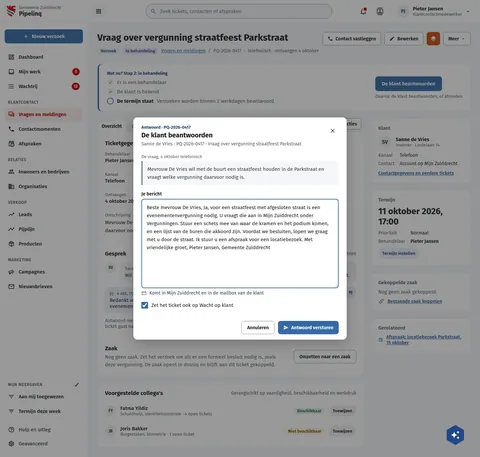
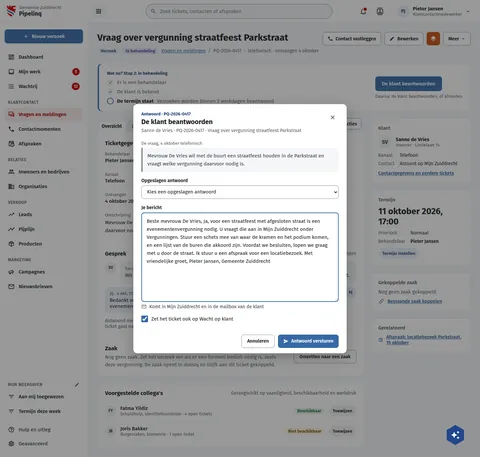
fix(screens): ticket boards draw the saved reply, the Dq menu and list Acties
PqTicketAntwoord draws the "Opgeslagen antwoord" select live offers above
the message, since users keep it. PqTicketMeer's menu is 330 wide with
Afwijzen in ink, as DqZaakMeer draws its menu. PqTickets puts Acties next
to Downloaden in the header, as DqZaken and live.

Assisted-by: ClaudeCode:claude-opus-5-5

Changed region(s): [[0.2812, 0.2144, 0.7188, 0.5821], [0.25, 0.674, 0.75, 0.7965], [0.2812, 0.6127, 0.7188, 0.7046]]

diff --git a/preview/screens/boards/PqTicketMeer.html b/preview/screens/boards/PqTicketMeer.html
@@ -207,7 +207,7 @@ a{color:var(--sc-primary, #3669a5)}a:hover{color:var(--sc-primary-deep, #234a78)
   </div>
   <div style="position: absolute; top: 140px; right: 28px; display: flex; gap: 6px; align-items: flex-start">
     <div style="margin-top: 52px; width: 260px; box-sizing: border-box; padding: 14px 16px; background: #ffffff; border: 1px solid var(--sc-work-line, #e4e6ea); border-radius: 10px; box-shadow: 0 10px 30px rgba(27,28,29,0.18); font-size: 13px; line-height: 1.45; color: var(--sc-work-text, #3d4047)"><p style="margin: 0 0 6px; font-size: 12px; font-weight: 700; letter-spacing: 0.06em; text-transform: uppercase; color: var(--sc-work-muted, #5e6168)">Andere stappen</p><p style="margin: 0 0 8px">Elke stap is een benoemde beweging van het ticket en staat er alleen als die kan:</p><ul style="margin: 0; padding-left: 18px"><li>In behandeling nemen, zolang het ticket nieuw is</li><li>Terug naar in behandeling, zolang het wacht op de klant</li><li>Afronden, bij een verzoek</li><li>Oplossen, bij een klacht</li><li>Ticket sluiten, bij een contactmoment</li><li>Afwijzen, zolang nieuw of in behandeling</li></ul><p style="margin: 8px 0 0; color: var(--sc-work-muted, #5e6168)">Elke stap wordt op de server opnieuw gecontroleerd.</p></div>
-    <ul role="menu" style="margin: 0; padding: 6px; box-sizing: border-box; list-style: none; width: 270px; background: #ffffff; border: 1px solid var(--sc-work-line, #e4e6ea); border-radius: 10px; box-shadow: 0 10px 30px rgba(27,28,29,0.18)"><li role="presentation" style="padding: 8px 10px 4px; font-size: 12px; font-weight: 700; letter-spacing: 0.06em; text-transform: uppercase; color: var(--sc-work-muted, #5e6168)">Status</li><li role="none"><button type="button" role="menuitem" style="width: 100%; display: flex; align-items: center; gap: 10px; height: 36px; padding: 0 10px; border: 0; border-radius: 6px; background: transparent; font: 400 14px var(--sc-font, 'Fira Sans'), sans-serif; color: var(--sc-work-ink, #1b1c1d); text-align: left"><svg width="18" height="18" viewbox="0 0 24 24" fill="currentColor" style="flex: none; color: var(--sc-work-text, #3d4047)"><path d="M17 18H21V16H17V14L14 17L17 20V18M11 4C8.8 4 7 5.8 7 8S8.8 12 11 12 15 10.2 15 8 13.2 4 11 4M11 6C12.1 6 13 6.9 13 8S12.1 10 11 10 9 9.1 9 8 9.9 6 11 6M11 13C8.3 13 3 14.3 3 17V20H12.5C12.2 19.4 12.1 18.8 12 18.1H4.9V17C4.9 16.4 8 14.9 11 14.9C11.5 14.9 12 15 12.5 15C12.8 14.4 13.1 13.8 13.6 13.3C12.6 13.1 11.7 13 11 13"></path></svg>Aan mij toewijzen</button></li><li role="presentation" style="padding: 10px 10px 4px; font-size: 12px; font-weight: 700; letter-spacing: 0.06em; text-transform: uppercase; color: var(--sc-work-muted, #5e6168)">Afronden</li><li role="none"><button type="button" role="menuitem" style="width: 100%; display: flex; align-items: center; gap: 10px; height: 36px; padding: 0 10px; border: 0; border-radius: 6px; background: #f0f4f9; font: 400 14px var(--sc-font, 'Fira Sans'), sans-serif; color: var(--sc-work-ink, #1b1c1d); text-align: left"><svg width="18" height="18" viewbox="0 0 24 24" fill="currentColor" style="flex: none; color: var(--sc-work-text, #3d4047)"><path d="M12 2C6.5 2 2 6.5 2 12S6.5 22 12 22 22 17.5 22 12 17.5 2 12 2M12 20C7.59 20 4 16.41 4 12S7.59 4 12 4 20 7.59 20 12 16.41 20 12 20M16.59 7.58L10 14.17L7.41 11.59L6 13L10 17L18 9L16.59 7.58Z"></path></svg>Afronden</button></li><li role="none"><button type="button" role="menuitem" style="width: 100%; display: flex; align-items: center; gap: 10px; height: 36px; padding: 0 10px; border: 0; border-radius: 6px; background: transparent; font: 400 14px var(--sc-font, 'Fira Sans'), sans-serif; color: var(--sc-accent-deep, #a30000); text-align: left"><svg width="18" height="18" viewbox="0 0 24 24" fill="currentColor" style="flex: none; color: var(--sc-accent-deep, #a30000)"><path d="M12,20C7.59,20 4,16.41 4,12C4,7.59 7.59,4 12,4C16.41,4 20,7.59 20,12C20,16.41 16.41,20 12,20M12,2C6.47,2 2,6.47 2,12C2,17.53 6.47,22 12,22C17.53,22 22,17.53 22,12C22,6.47 17.53,2 12,2M14.59,8L12,10.59L9.41,8L8,9.41L10.59,12L8,14.59L9.41,16L12,13.41L14.59,16L16,14.59L13.41,12L16,9.41L14.59,8Z"></path></svg>Afwijzen</button></li><li role="separator" style="height: 1px; margin: 6px 0; background: var(--sc-work-soft, #eef0f3)"></li><li role="none"><button type="button" role="menuitem" style="width: 100%; display: flex; align-items: center; gap: 10px; height: 36px; padding: 0 10px; border: 0; border-radius: 6px; background: transparent; font: 400 14px var(--sc-font, 'Fira Sans'), sans-serif; color: var(--sc-work-ink, #1b1c1d); text-align: left"><svg width="18" height="18" viewbox="0 0 24 24" fill="currentColor" style="flex: none; color: var(--sc-work-text, #3d4047)"><path d="M14 2H6C4.89 2 4 2.9 4 4V20C4 21.11 4.89 22 6 22H18C19.11 22 20 21.11 20 20V8L14 2M18 20H6V4H13V9H18V20M12.54 18.5V16.5H8.54V14.5H12.54V12.5L15.54 15.5L12.54 18.5Z"></path></svg>Omzetten naar een Woo-verzoek</button></li><li role="none"><button type="button" role="menuitem" style="width: 100%; display: flex; align-items: center; gap: 10px; height: 36px; padding: 0 10px; border: 0; border-radius: 6px; background: transparent; font: 400 14px var(--sc-font, 'Fira Sans'), sans-serif; color: var(--sc-work-ink, #1b1c1d); text-align: left"><svg width="18" height="18" viewbox="0 0 24 24" fill="currentColor" style="flex: none; color: var(--sc-work-text, #3d4047)"><path d="M20 18H4V8H20V18M12 6L10 4H4C2.9 4 2 4.89 2 6V18C2 19.11 2.9 20 4 20H20C21.11 20 22 19.11 22 18V8C22 6.9 21.11 6 20 6H12M11 14V12H15V9L19 13L15 17V14H11Z"></path></svg>Omzetten naar een zaak</button></li><li role="separator" style="height: 1px; margin: 6px 0; background: var(--sc-work-soft, #eef0f3)"></li><li role="none"><button type="button" role="menuitem" style="width: 100%; display: flex; align-items: center; gap: 10px; height: 36px; padding: 0 10px; border: 0; border-radius: 6px; background: transparent; font: 400 14px var(--sc-font, 'Fira Sans'), sans-serif; color: var(--sc-work-ink, #1b1c1d); text-align: left"><svg width="18" height="18" viewbox="0 0 24 24" fill="currentColor" style="flex: none; color: var(--sc-work-text, #3d4047)"><path d="M17.65,6.35C16.2,4.9 14.21,4 12,4A8,8 0 0,0 4,12A8,8 0 0,0 12,20C15.73,20 18.84,17.45 19.73,14H17.65C16.83,16.33 14.61,18 12,18A6,6 0 0,1 6,12A6,6 0 0,1 12,6C13.66,6 15.14,6.69 16.22,7.78L13,11H20V4L17.65,6.35Z"></path></svg>Vernieuwen</button></li><li role="none"><button type="button" role="menuitem" style="width: 100%; display: flex; align-items: center; gap: 10px; height: 36px; padding: 0 10px; border: 0; border-radius: 6px; background: transparent; font: 400 14px var(--sc-font, 'Fira Sans'), sans-serif; color: var(--sc-work-ink, #1b1c1d); text-align: left"><svg width="18" height="18" viewbox="0 0 24 24" fill="currentColor" style="flex: none; color: var(--sc-work-text, #3d4047)"><path d="M12 21.5C10.65 20.65 8.2 20 6.5 20C4.85 20 3.15 20.3 1.75 21.05C1.65 21.1 1.6 21.1 1.5 21.1C1.25 21.1 1 20.85 1 20.6V6C1.6 5.55 2.25 5.25 3 5C4.11 4.65 5.33 4.5 6.5 4.5C8.45 4.5 10.55 4.9 12 6C13.45 4.9 15.55 4.5 17.5 4.5C18.67 4.5 19.89 4.65 21 5C21.75 5.25 22.4 5.55 23 6V20.6C23 20.85 22.75 21.1 22.5 21.1C22.4 21.1 22.35 21.1 22.25 21.05C20.85 20.3 19.15 20 17.5 20C15.8 20 13.35 20.65 12 21.5M11 7.5C9.64 6.9 7.84 6.5 6.5 6.5C5.3 6.5 4.1 6.65 3 7V18.5C4.1 18.15 5.3 18 6.5 18C7.84 18 9.64 18.4 11 19V7.5M13 19C14.36 18.4 16.16 18 17.5 18C18.7 18 19.9 18.15 21 18.5V7C19.9 6.65 18.7 6.5 17.5 6.5C16.16 6.5 14.36 6.9 13 7.5V19M14 16.35C14.96 16 16.12 15.83 17.5 15.83C18.54 15.83 19.38 15.91 20 16.07V14.57C19.13 14.41 18.29 14.33 17.5 14.33C16.16 14.33 15 14.5 14 14.76V16.35M14 13.69C14.96 13.34 16.12 13.16 17.5 13.16C18.54 13.16 19.38 13.24 20 13.4V11.9C19.13 11.74 18.29 11.67 17.5 11.67C16.22 11.67 15.05 11.82 14 12.12V13.69M14 11C14.96 10.67 16.12 10.5 17.5 10.5C18.41 10.5 19.26 10.59 20 10.78V9.23C19.13 9.08 18.29 9 17.5 9C16.18 9 15 9.15 14 9.46V11Z"></path></svg>Documentatie</button></li><li role="none"><button type="button" role="menuitem" style="width: 100%; display: flex; align-items: center; gap: 10px; height: 36px; padding: 0 10px; border: 0; border-radius: 6px; background: transparent; font: 400 14px var(--sc-font, 'Fira Sans'), sans-serif; color: var(--sc-work-ink, #1b1c1d); text-align: left"><svg width="18" height="18" viewbox="0 0 24 24" fill="currentColor" style="flex: none; color: var(--sc-work-text, #3d4047)"><path d="M11 9.47V11H14.76L13 14.53V13H9.24L11 9.47M13 1L6 15H11V23L18 9H13V1Z"></path></svg>Functie aanvragen</button></li><li role="none"><button type="button" role="menuitem" style="width: 100%; display: flex; align-items: center; gap: 10px; height: 36px; padding: 0 10px; border: 0; border-radius: 6px; background: transparent; font: 400 14px var(--sc-font, 'Fira Sans'), sans-serif; color: var(--sc-work-ink, #1b1c1d); text-align: left"><svg width="18" height="18" viewbox="0 0 24 24" fill="currentColor" style="flex: none; color: var(--sc-work-text, #3d4047)"><path d="M12,2L1,21H23M12,6L19.53,19H4.47M11,10V14H13V10M11,16V18H13V16"></path></svg>Fout melden</button></li></ul>
+    <ul role="menu" style="margin: 0; padding: 6px; box-sizing: border-box; list-style: none; width: 330px; background: #ffffff; border: 1px solid var(--sc-work-line, #e4e6ea); border-radius: 10px; box-shadow: 0 10px 30px rgba(27,28,29,0.18)"><li role="presentation" style="padding: 8px 10px 4px; font-size: 12px; font-weight: 700; letter-spacing: 0.06em; text-transform: uppercase; color: var(--sc-work-muted, #5e6168)">Status</li><li role="none"><button type="button" role="menuitem" style="width: 100%; display: flex; align-items: center; gap: 10px; height: 36px; padding: 0 10px; border: 0; border-radius: 6px; background: transparent; font: 400 14px var(--sc-font, 'Fira Sans'), sans-serif; color: var(--sc-work-ink, #1b1c1d); text-align: left"><svg width="18" height="18" viewbox="0 0 24 24" fill="currentColor" style="flex: none; color: var(--sc-work-text, #3d4047)"><path d="M17 18H21V16H17V14L14 17L17 20V18M11 4C8.8 4 7 5.8 7 8S8.8 12 11 12 15 10.2 15 8 13.2 4 11 4M11 6C12.1 6 13 6.9 13 8S12.1 10 11 10 9 9.1 9 8 9.9 6 11 6M11 13C8.3 13 3 14.3 3 17V20H12.5C12.2 19.4 12.1 18.8 12 18.1H4.9V17C4.9 16.4 8 14.9 11 14.9C11.5 14.9 12 15 12.5 15C12.8 14.4 13.1 13.8 13.6 13.3C12.6 13.1 11.7 13 11 13"></path></svg>Aan mij toewijzen</button></li><li role="presentation" style="padding: 10px 10px 4px; font-size: 12px; font-weight: 700; letter-spacing: 0.06em; text-transform: uppercase; color: var(--sc-work-muted, #5e6168)">Afronden</li><li role="none"><button type="button" role="menuitem" style="width: 100%; display: flex; align-items: center; gap: 10px; height: 36px; padding: 0 10px; border: 0; border-radius: 6px; background: #f0f4f9; font: 400 14px var(--sc-font, 'Fira Sans'), sans-serif; color: var(--sc-work-ink, #1b1c1d); text-align: left"><svg width="18" height="18" viewbox="0 0 24 24" fill="currentColor" style="flex: none; color: var(--sc-work-text, #3d4047)"><path d="M12 2C6.5 2 2 6.5 2 12S6.5 22 12 22 22 17.5 22 12 17.5 2 12 2M12 20C7.59 20 4 16.41 4 12S7.59 4 12 4 20 7.59 20 12 16.41 20 12 20M16.59 7.58L10 14.17L7.41 11.59L6 13L10 17L18 9L16.59 7.58Z"></path></svg>Afronden</button></li><li role="none"><button type="button" role="menuitem" style="width: 100%; display: flex; align-items: center; gap: 10px; height: 36px; padding: 0 10px; border: 0; border-radius: 6px; background: transparent; font: 400 14px var(--sc-font, 'Fira Sans'), sans-serif; color: var(--sc-work-ink, #1b1c1d); text-align: left"><svg width="18" height="18" viewbox="0 0 24 24" fill="currentColor" style="flex: none; color: var(--sc-work-text, #3d4047)"><path d="M12,20C7.59,20 4,16.41 4,12C4,7.59 7.59,4 12,4C16.41,4 20,7.59 20,12C20,16.41 16.41,20 12,20M12,2C6.47,2 2,6.47 2,12C2,17.53 6.47,22 12,22C17.53,22 22,17.53 22,12C22,6.47 17.53,2 12,2M14.59,8L12,10.59L9.41,8L8,9.41L10.59,12L8,14.59L9.41,16L12,13.41L14.59,16L16,14.59L13.41,12L16,9.41L14.59,8Z"></path></svg>Afwijzen</button></li><li role="separator" style="height: 1px; margin: 6px 0; background: var(--sc-work-soft, #eef0f3)"></li><li role="none"><button type="button" role="menuitem" style="width: 100%; display: flex; align-items: center; gap: 10px; height: 36px; padding: 0 10px; border: 0; border-radius: 6px; background: transparent; font: 400 14px var(--sc-font, 'Fira Sans'), sans-serif; color: var(--sc-work-ink, #1b1c1d); text-align: left"><svg width="18" height="18" viewbox="0 0 24 24" fill="currentColor" style="flex: none; color: var(--sc-work-text, #3d4047)"><path d="M14 2H6C4.89 2 4 2.9 4 4V20C4 21.11 4.89 22 6 22H18C19.11 22 20 21.11 20 20V8L14 2M18 20H6V4H13V9H18V20M12.54 18.5V16.5H8.54V14.5H12.54V12.5L15.54 15.5L12.54 18.5Z"></path></svg>Omzetten naar een Woo-verzoek</button></li><li role="none"><button type="button" role="menuitem" style="width: 100%; display: flex; align-items: center; gap: 10px; height: 36px; padding: 0 10px; border: 0; border-radius: 6px; background: transparent; font: 400 14px var(--sc-font, 'Fira Sans'), sans-serif; color: var(--sc-work-ink, #1b1c1d); text-align: left"><svg width="18" height="18" viewbox="0 0 24 24" fill="currentColor" style="flex: none; color: var(--sc-work-text, #3d4047)"><path d="M20 18H4V8H20V18M12 6L10 4H4C2.9 4 2 4.89 2 6V18C2 19.11 2.9 20 4 20H20C21.11 20 22 19.11 22 18V8C22 6.9 21.11 6 20 6H12M11 14V12H15V9L19 13L15 17V14H11Z"></path></svg>Omzetten naar een zaak</button></li><li role="separator" style="height: 1px; margin: 6px 0; background: var(--sc-work-soft, #eef0f3)"></li><li role="none"><button type="button" role="menuitem" style="width: 100%; display: flex; align-items: center; gap: 10px; height: 36px; padding: 0 10px; border: 0; border-radius: 6px; background: transparent; font: 400 14px var(--sc-font, 'Fira Sans'), sans-serif; color: var(--sc-work-ink, #1b1c1d); text-align: left"><svg width="18" height="18" viewbox="0 0 24 24" fill="currentColor" style="flex: none; color: var(--sc-work-text, #3d4047)"><path d="M17.65,6.35C16.2,4.9 14.21,4 12,4A8,8 0 0,0 4,12A8,8 0 0,0 12,20C15.73,20 18.84,17.45 19.73,14H17.65C16.83,16.33 14.61,18 12,18A6,6 0 0,1 6,12A6,6 0 0,1 12,6C13.66,6 15.14,6.69 16.22,7.78L13,11H20V4L17.65,6.35Z"></path></svg>Vernieuwen</button></li><li role="none"><button type="button" role="menuitem" style="width: 100%; display: flex; align-items: center; gap: 10px; height: 36px; padding: 0 10px; border: 0; border-radius: 6px; background: transparent; font: 400 14px var(--sc-font, 'Fira Sans'), sans-serif; color: var(--sc-work-ink, #1b1c1d); text-align: left"><svg width="18" height="18" viewbox="0 0 24 24" fill="currentColor" style="flex: none; color: var(--sc-work-text, #3d4047)"><path d="M12 21.5C10.65 20.65 8.2 20 6.5 20C4.85 20 3.15 20.3 1.75 21.05C1.65 21.1 1.6 21.1 1.5 21.1C1.25 21.1 1 20.85 1 20.6V6C1.6 5.55 2.25 5.25 3 5C4.11 4.65 5.33 4.5 6.5 4.5C8.45 4.5 10.55 4.9 12 6C13.45 4.9 15.55 4.5 17.5 4.5C18.67 4.5 19.89 4.65 21 5C21.75 5.25 22.4 5.55 23 6V20.6C23 20.85 22.75 21.1 22.5 21.1C22.4 21.1 22.35 21.1 22.25 21.05C20.85 20.3 19.15 20 17.5 20C15.8 20 13.35 20.65 12 21.5M11 7.5C9.64 6.9 7.84 6.5 6.5 6.5C5.3 6.5 4.1 6.65 3 7V18.5C4.1 18.15 5.3 18 6.5 18C7.84 18 9.64 18.4 11 19V7.5M13 19C14.36 18.4 16.16 18 17.5 18C18.7 18 19.9 18.15 21 18.5V7C19.9 6.65 18.7 6.5 17.5 6.5C16.16 6.5 14.36 6.9 13 7.5V19M14 16.35C14.96 16 16.12 15.83 17.5 15.83C18.54 15.83 19.38 15.91 20 16.07V14.57C19.13 14.41 18.29 14.33 17.5 14.33C16.16 14.33 15 14.5 14 14.76V16.35M14 13.69C14.96 13.34 16.12 13.16 17.5 13.16C18.54 13.16 19.38 13.24 20 13.4V11.9C19.13 11.74 18.29 11.67 17.5 11.67C16.22 11.67 15.05 11.82 14 12.12V13.69M14 11C14.96 10.67 16.12 10.5 17.5 10.5C18.41 10.5 19.26 10.59 20 10.78V9.23C19.13 9.08 18.29 9 17.5 9C16.18 9 15 9.15 14 9.46V11Z"></path></svg>Documentatie</button></li><li role="none"><button type="button" role="menuitem" style="width: 100%; display: flex; align-items: center; gap: 10px; height: 36px; padding: 0 10px; border: 0; border-radius: 6px; background: transparent; font: 400 14px var(--sc-font, 'Fira Sans'), sans-serif; color: var(--sc-work-ink, #1b1c1d); text-align: left"><svg width="18" height="18" viewbox="0 0 24 24" fill="currentColor" style="flex: none; color: var(--sc-work-text, #3d4047)"><path d="M11 9.47V11H14.76L13 14.53V13H9.24L11 9.47M13 1L6 15H11V23L18 9H13V1Z"></path></svg>Functie aanvragen</button></li><li role="none"><button type="button" role="menuitem" style="width: 100%; display: flex; align-items: center; gap: 10px; height: 36px; padding: 0 10px; border: 0; border-radius: 6px; background: transparent; font: 400 14px var(--sc-font, 'Fira Sans'), sans-serif; color: var(--sc-work-ink, #1b1c1d); text-align: left"><svg width="18" height="18" viewbox="0 0 24 24" fill="currentColor" style="flex: none; color: var(--sc-work-text, #3d4047)"><path d="M12,2L1,21H23M12,6L19.53,19H4.47M11,10V14H13V10M11,16V18H13V16"></path></svg>Fout melden</button></li></ul>
   </div>
 </div>
 <button type="button" aria-label="AI-chat openen" data-sc-ai-chat="button" style="position: fixed; z-index: 9000; right: 48px; bottom: 36px; display: flex; align-items: center; justify-content: center; width: 52px; height: 60px; padding: 0; margin: 0; border: 0; border-radius: 0; background: transparent; color: #ffffff; cursor: pointer"><span style="display: flex; align-items: center; justify-content: center; width: 100%; height: 100%; background: #21468b; clip-path: polygon(50% 0%, 100% 25%, 100% 75%, 50% 100%, 0% 75%, 0% 25%); filter: drop-shadow(0 4px 10px rgba(0, 0, 0, 0.25))"><svg width="28" height="28" viewbox="0 0 24 24" fill="currentColor" aria-hidden="true"><path d="M19,1L17.74,3.75L15,5L17.74,6.26L19,9L20.25,6.26L23,5L20.25,3.75M9,4L6.5,9.5L1,12L6.5,14.5L9,20L11.5,14.5L17,12L11.5,9.5M19,15L17.74,17.74L15,19L17.74,20.25L19,23L20.25,20.25L23,19L20.25,17.74"></path></svg></span></button>

diff --git a/screens-src/zuiddrecht/PqTicketMeer.dc.html b/screens-src/zuiddrecht/PqTicketMeer.dc.html
@@ -48,7 +48,7 @@ a{color:#3669a5}a:hover{color:#234a78}
   </div>
   <div style="position: absolute; top: 140px; right: 28px; display: flex; gap: 6px; align-items: flex-start">
     <div style="margin-top: 52px; width: 260px; box-sizing: border-box; padding: 14px 16px; background: #ffffff; border: 1px solid #e4e6ea; border-radius: 10px; box-shadow: 0 10px 30px rgba(27,28,29,0.18); font-size: 13px; line-height: 1.45; color: #3d4047"><p style="margin: 0 0 6px; font-size: 12px; font-weight: 700; letter-spacing: 0.06em; text-transform: uppercase; color: #5e6168">Andere stappen</p><p style="margin: 0 0 8px">Elke stap is een benoemde beweging van het ticket en staat er alleen als die kan:</p><ul style="margin: 0; padding-left: 18px"><li>In behandeling nemen, zolang het ticket nieuw is</li><li>Terug naar in behandeling, zolang het wacht op de klant</li><li>Afronden, bij een verzoek</li><li>Oplossen, bij een klacht</li><li>Ticket sluiten, bij een contactmoment</li><li>Afwijzen, zolang nieuw of in behandeling</li></ul><p style="margin: 8px 0 0; color: #5e6168">Elke stap wordt op de server opnieuw gecontroleerd.</p></div>
-    <ul role="menu" style="margin: 0; padding: 6px; box-sizing: border-box; list-style: none; width: 270px; background: #ffffff; border: 1px solid #e4e6ea; border-radius: 10px; box-shadow: 0 10px 30px rgba(27,28,29,0.18)"><li role="presentation" style="padding: 8px 10px 4px; font-size: 12px; font-weight: 700; letter-spacing: 0.06em; text-transform: uppercase; color: #5e6168">Status</li><li role="none"><button type="button" role="menuitem" style="width: 100%; display: flex; align-items: center; gap: 10px; height: 36px; padding: 0 10px; border: 0; border-radius: 6px; background: transparent; font: 400 14px 'Fira Sans', sans-serif; color: #1b1c1d; text-align: left"><svg width="18" height="18" viewBox="0 0 24 24" fill="currentColor" style="flex: none; color: #3d4047"><path d="M17 18H21V16H17V14L14 17L17 20V18M11 4C8.8 4 7 5.8 7 8S8.8 12 11 12 15 10.2 15 8 13.2 4 11 4M11 6C12.1 6 13 6.9 13 8S12.1 10 11 10 9 9.1 9 8 9.9 6 11 6M11 13C8.3 13 3 14.3 3 17V20H12.5C12.2 19.4 12.1 18.8 12 18.1H4.9V17C4.9 16.4 8 14.9 11 14.9C11.5 14.9 12 15 12.5 15C12.8 14.4 13.1 13.8 13.6 13.3C12.6 13.1 11.7 13 11 13"></path></svg>Aan mij toewijzen</button></li><li role="presentation" style="padding: 10px 10px 4px; font-size: 12px; font-weight: 700; letter-spacing: 0.06em; text-transform: uppercase; color: #5e6168">Afronden</li><li role="none"><button type="button" role="menuitem" style="width: 100%; display: flex; align-items: center; gap: 10px; height: 36px; padding: 0 10px; border: 0; border-radius: 6px; background: #f0f4f9; font: 400 14px 'Fira Sans', sans-serif; color: #1b1c1d; text-align: left"><svg width="18" height="18" viewBox="0 0 24 24" fill="currentColor" style="flex: none; color: #3d4047"><path d="M12 2C6.5 2 2 6.5 2 12S6.5 22 12 22 22 17.5 22 12 17.5 2 12 2M12 20C7.59 20 4 16.41 4 12S7.59 4 12 4 20 7.59 20 12 16.41 20 12 20M16.59 7.58L10 14.17L7.41 11.59L6 13L10 17L18 9L16.59 7.58Z"></path></svg>Afronden</button></li><li role="none"><button type="button" role="menuitem" style="width: 100%; display: flex; align-items: center; gap: 10px; height: 36px; padding: 0 10px; border: 0; border-radius: 6px; background: transparent; font: 400 14px 'Fira Sans', sans-serif; color: #a30000; text-align: left"><svg width="18" height="18" viewBox="0 0 24 24" fill="currentColor" style="flex: none; color: #a30000"><path d="M12,20C7.59,20 4,16.41 4,12C4,7.59 7.59,4 12,4C16.41,4 20,7.59 20,12C20,16.41 16.41,20 12,20M12,2C6.47,2 2,6.47 2,12C2,17.53 6.47,22 12,22C17.53,22 22,17.53 22,12C22,6.47 17.53,2 12,2M14.59,8L12,10.59L9.41,8L8,9.41L10.59,12L8,14.59L9.41,16L12,13.41L14.59,16L16,14.59L13.41,12L16,9.41L14.59,8Z"></path></svg>Afwijzen</button></li><li role="separator" style="height: 1px; margin: 6px 0; background: #eef0f3"></li><li role="none"><button type="button" role="menuitem" style="width: 100%; display: flex; align-items: center; gap: 10px; height: 36px; padding: 0 10px; border: 0; border-radius: 6px; background: transparent; font: 400 14px 'Fira Sans', sans-serif; color: #1b1c1d; text-align: left"><svg width="18" height="18" viewBox="0 0 24 24" fill="currentColor" style="flex: none; color: #3d4047"><path d="M14 2H6C4.89 2 4 2.9 4 4V20C4 21.11 4.89 22 6 22H18C19.11 22 20 21.11 20 20V8L14 2M18 20H6V4H13V9H18V20M12.54 18.5V16.5H8.54V14.5H12.54V12.5L15.54 15.5L12.54 18.5Z"></path></svg>Omzetten naar een Woo-verzoek</button></li><li role="none"><button type="button" role="menuitem" style="width: 100%; display: flex; align-items: center; gap: 10px; height: 36px; padding: 0 10px; border: 0; border-radius: 6px; background: transparent; font: 400 14px 'Fira Sans', sans-serif; color: #1b1c1d; text-align: left"><svg width="18" height="18" viewBox="0 0 24 24" fill="currentColor" style="flex: none; color: #3d4047"><path d="M20 18H4V8H20V18M12 6L10 4H4C2.9 4 2 4.89 2 6V18C2 19.11 2.9 20 4 20H20C21.11 20 22 19.11 22 18V8C22 6.9 21.11 6 20 6H12M11 14V12H15V9L19 13L15 17V14H11Z"></path></svg>Omzetten naar een zaak</button></li><li role="separator" style="height: 1px; margin: 6px 0; background: #eef0f3"></li><li role="none"><button type="button" role="menuitem" style="width: 100%; display: flex; align-items: center; gap: 10px; height: 36px; padding: 0 10px; border: 0; border-radius: 6px; background: transparent; font: 400 14px 'Fira Sans', sans-serif; color: #1b1c1d; text-align: left"><svg width="18" height="18" viewBox="0 0 24 24" fill="currentColor" style="flex: none; color: #3d4047"><path d="M17.65,6.35C16.2,4.9 14.21,4 12,4A8,8 0 0,0 4,12A8,8 0 0,0 12,20C15.73,20 18.84,17.45 19.73,14H17.65C16.83,16.33 14.61,18 12,18A6,6 0 0,1 6,12A6,6 0 0,1 12,6C13.66,6 15.14,6.69 16.22,7.78L13,11H20V4L17.65,6.35Z"></path></svg>Vernieuwen</button></li><li role="none"><button type="button" role="menuitem" style="width: 100%; display: flex; align-items: center; gap: 10px; height: 36px; padding: 0 10px; border: 0; border-radius: 6px; background: transparent; font: 400 14px 'Fira Sans', sans-serif; color: #1b1c1d; text-align: left"><svg width="18" height="18" viewBox="0 0 24 24" fill="currentColor" style="flex: none; color: #3d4047"><path d="M12 21.5C10.65 20.65 8.2 20 6.5 20C4.85 20 3.15 20.3 1.75 21.05C1.65 21.1 1.6 21.1 1.5 21.1C1.25 21.1 1 20.85 1 20.6V6C1.6 5.55 2.25 5.25 3 5C4.11 4.65 5.33 4.5 6.5 4.5C8.45 4.5 10.55 4.9 12 6C13.45 4.9 15.55 4.5 17.5 4.5C18.67 4.5 19.89 4.65 21 5C21.75 5.25 22.4 5.55 23 6V20.6C23 20.85 22.75 21.1 22.5 21.1C22.4 21.1 22.35 21.1 22.25 21.05C20.85 20.3 19.15 20 17.5 20C15.8 20 13.35 20.65 12 21.5M11 7.5C9.64 6.9 7.84 6.5 6.5 6.5C5.3 6.5 4.1 6.65 3 7V18.5C4.1 18.15 5.3 18 6.5 18C7.84 18 9.64 18.4 11 19V7.5M13 19C14.36 18.4 16.16 18 17.5 18C18.7 18 19.9 18.15 21 18.5V7C19.9 6.65 18.7 6.5 17.5 6.5C16.16 6.5 14.36 6.9 13 7.5V19M14 16.35C14.96 16 16.12 15.83 17.5 15.83C18.54 15.83 19.38 15.91 20 16.07V14.57C19.13 14.41 18.29 14.33 17.5 14.33C16.16 14.33 15 14.5 14 14.76V16.35M14 13.69C14.96 13.34 16.12 13.16 17.5 13.16C18.54 13.16 19.38 13.24 20 13.4V11.9C19.13 11.74 18.29 11.67 17.5 11.67C16.22 11.67 15.05 11.82 14 12.12V13.69M14 11C14.96 10.67 16.12 10.5 17.5 10.5C18.41 10.5 19.26 10.59 20 10.78V9.23C19.13 9.08 18.29 9 17.5 9C16.18 9 15 9.15 14 9.46V11Z"></path></svg>Documentatie</button></li><li role="none"><button type="button" role="menuitem" style="width: 100%; display: flex; align-items: center; gap: 10px; height: 36px; padding: 0 10px; border: 0; border-radius: 6px; background: transparent; font: 400 14px 'Fira Sans', sans-serif; color: #1b1c1d; text-align: left"><svg width="18" height="18" viewBox="0 0 24 24" fill="currentColor" style="flex: none; color: #3d4047"><path d="M11 9.47V11H14.76L13 14.53V13H9.24L11 9.47M13 1L6 15H11V23L18 9H13V1Z"></path></svg>Functie aanvragen</button></li><li role="none"><button type="button" role="menuitem" style="width: 100%; display: flex; align-items: center; gap: 10px; height: 36px; padding: 0 10px; border: 0; border-radius: 6px; background: transparent; font: 400 14px 'Fira Sans', sans-serif; color: #1b1c1d; text-align: left"><svg width="18" height="18" viewBox="0 0 24 24" fill="currentColor" style="flex: none; color: #3d4047"><path d="M12,2L1,21H23M12,6L19.53,19H4.47M11,10V14H13V10M11,16V18H13V16"></path></svg>Fout melden</button></li></ul>
+    <ul role="menu" style="margin: 0; padding: 6px; box-sizing: border-box; list-style: none; width: 330px; background: #ffffff; border: 1px solid #e4e6ea; border-radius: 10px; box-shadow: 0 10px 30px rgba(27,28,29,0.18)"><li role="presentation" style="padding: 8px 10px 4px; font-size: 12px; font-weight: 700; letter-spacing: 0.06em; text-transform: uppercase; color: #5e6168">Status</li><li role="none"><button type="button" role="menuitem" style="width: 100%; display: flex; align-items: center; gap: 10px; height: 36px; padding: 0 10px; border: 0; border-radius: 6px; background: transparent; font: 400 14px 'Fira Sans', sans-serif; color: #1b1c1d; text-align: left"><svg width="18" height="18" viewBox="0 0 24 24" fill="currentColor" style="flex: none; color: #3d4047"><path d="M17 18H21V16H17V14L14 17L17 20V18M11 4C8.8 4 7 5.8 7 8S8.8 12 11 12 15 10.2 15 8 13.2 4 11 4M11 6C12.1 6 13 6.9 13 8S12.1 10 11 10 9 9.1 9 8 9.9 6 11 6M11 13C8.3 13 3 14.3 3 17V20H12.5C12.2 19.4 12.1 18.8 12 18.1H4.9V17C4.9 16.4 8 14.9 11 14.9C11.5 14.9 12 15 12.5 15C12.8 14.4 13.1 13.8 13.6 13.3C12.6 13.1 11.7 13 11 13"></path></svg>Aan mij toewijzen</button></li><li role="presentation" style="padding: 10px 10px 4px; font-size: 12px; font-weight: 700; letter-spacing: 0.06em; text-transform: uppercase; color: #5e6168">Afronden</li><li role="none"><button type="button" role="menuitem" style="width: 100%; display: flex; align-items: center; gap: 10px; height: 36px; padding: 0 10px; border: 0; border-radius: 6px; background: #f0f4f9; font: 400 14px 'Fira Sans', sans-serif; color: #1b1c1d; text-align: left"><svg width="18" height="18" viewBox="0 0 24 24" fill="currentColor" style="flex: none; color: #3d4047"><path d="M12 2C6.5 2 2 6.5 2 12S6.5 22 12 22 22 17.5 22 12 17.5 2 12 2M12 20C7.59 20 4 16.41 4 12S7.59 4 12 4 20 7.59 20 12 16.41 20 12 20M16.59 7.58L10 14.17L7.41 11.59L6 13L10 17L18 9L16.59 7.58Z"></path></svg>Afronden</button></li><li role="none"><button type="button" role="menuitem" style="width: 100%; display: flex; align-items: center; gap: 10px; height: 36px; padding: 0 10px; border: 0; border-radius: 6px; background: transparent; font: 400 14px 'Fira Sans', sans-serif; color: #1b1c1d; text-align: left"><svg width="18" height="18" viewBox="0 0 24 24" fill="currentColor" style="flex: none; color: #3d4047"><path d="M12,20C7.59,20 4,16.41 4,12C4,7.59 7.59,4 12,4C16.41,4 20,7.59 20,12C20,16.41 16.41,20 12,20M12,2C6.47,2 2,6.47 2,12C2,17.53 6.47,22 12,22C17.53,22 22,17.53 22,12C22,6.47 17.53,2 12,2M14.59,8L12,10.59L9.41,8L8,9.41L10.59,12L8,14.59L9.41,16L12,13.41L14.59,16L16,14.59L13.41,12L16,9.41L14.59,8Z"></path></svg>Afwijzen</button></li><li role="separator" style="height: 1px; margin: 6px 0; background: #eef0f3"></li><li role="none"><button type="button" role="menuitem" style="width: 100%; display: flex; align-items: center; gap: 10px; height: 36px; padding: 0 10px; border: 0; border-radius: 6px; background: transparent; font: 400 14px 'Fira Sans', sans-serif; color: #1b1c1d; text-align: left"><svg width="18" height="18" viewBox="0 0 24 24" fill="currentColor" style="flex: none; color: #3d4047"><path d="M14 2H6C4.89 2 4 2.9 4 4V20C4 21.11 4.89 22 6 22H18C19.11 22 20 21.11 20 20V8L14 2M18 20H6V4H13V9H18V20M12.54 18.5V16.5H8.54V14.5H12.54V12.5L15.54 15.5L12.54 18.5Z"></path></svg>Omzetten naar een Woo-verzoek</button></li><li role="none"><button type="button" role="menuitem" style="width: 100%; display: flex; align-items: center; gap: 10px; height: 36px; padding: 0 10px; border: 0; border-radius: 6px; background: transparent; font: 400 14px 'Fira Sans', sans-serif; color: #1b1c1d; text-align: left"><svg width="18" height="18" viewBox="0 0 24 24" fill="currentColor" style="flex: none; color: #3d4047"><path d="M20 18H4V8H20V18M12 6L10 4H4C2.9 4 2 4.89 2 6V18C2 19.11 2.9 20 4 20H20C21.11 20 22 19.11 22 18V8C22 6.9 21.11 6 20 6H12M11 14V12H15V9L19 13L15 17V14H11Z"></path></svg>Omzetten naar een zaak</button></li><li role="separator" style="height: 1px; margin: 6px 0; background: #eef0f3"></li><li role="none"><button type="button" role="menuitem" style="width: 100%; display: flex; align-items: center; gap: 10px; height: 36px; padding: 0 10px; border: 0; border-radius: 6px; background: transparent; font: 400 14px 'Fira Sans', sans-serif; color: #1b1c1d; text-align: left"><svg width="18" height="18" viewBox="0 0 24 24" fill="currentColor" style="flex: none; color: #3d4047"><path d="M17.65,6.35C16.2,4.9 14.21,4 12,4A8,8 0 0,0 4,12A8,8 0 0,0 12,20C15.73,20 18.84,17.45 19.73,14H17.65C16.83,16.33 14.61,18 12,18A6,6 0 0,1 6,12A6,6 0 0,1 12,6C13.66,6 15.14,6.69 16.22,7.78L13,11H20V4L17.65,6.35Z"></path></svg>Vernieuwen</button></li><li role="none"><button type="button" role="menuitem" style="width: 100%; display: flex; align-items: center; gap: 10px; height: 36px; padding: 0 10px; border: 0; border-radius: 6px; background: transparent; font: 400 14px 'Fira Sans', sans-serif; color: #1b1c1d; text-align: left"><svg width="18" height="18" viewBox="0 0 24 24" fill="currentColor" style="flex: none; color: #3d4047"><path d="M12 21.5C10.65 20.65 8.2 20 6.5 20C4.85 20 3.15 20.3 1.75 21.05C1.65 21.1 1.6 21.1 1.5 21.1C1.25 21.1 1 20.85 1 20.6V6C1.6 5.55 2.25 5.25 3 5C4.11 4.65 5.33 4.5 6.5 4.5C8.45 4.5 10.55 4.9 12 6C13.45 4.9 15.55 4.5 17.5 4.5C18.67 4.5 19.89 4.65 21 5C21.75 5.25 22.4 5.55 23 6V20.6C23 20.85 22.75 21.1 22.5 21.1C22.4 21.1 22.35 21.1 22.25 21.05C20.85 20.3 19.15 20 17.5 20C15.8 20 13.35 20.65 12 21.5M11 7.5C9.64 6.9 7.84 6.5 6.5 6.5C5.3 6.5 4.1 6.65 3 7V18.5C4.1 18.15 5.3 18 6.5 18C7.84 18 9.64 18.4 11 19V7.5M13 19C14.36 18.4 16.16 18 17.5 18C18.7 18 19.9 18.15 21 18.5V7C19.9 6.65 18.7 6.5 17.5 6.5C16.16 6.5 14.36 6.9 13 7.5V19M14 16.35C14.96 16 16.12 15.83 17.5 15.83C18.54 15.83 19.38 15.91 20 16.07V14.57C19.13 14.41 18.29 14.33 17.5 14.33C16.16 14.33 15 14.5 14 14.76V16.35M14 13.69C14.96 13.34 16.12 13.16 17.5 13.16C18.54 13.16 19.38 13.24 20 13.4V11.9C19.13 11.74 18.29 11.67 17.5 11.67C16.22 11.67 15.05 11.82 14 12.12V13.69M14 11C14.96 10.67 16.12 10.5 17.5 10.5C18.41 10.5 19.26 10.59 20 10.78V9.23C19.13 9.08 18.29 9 17.5 9C16.18 9 15 9.15 14 9.46V11Z"></path></svg>Documentatie</button></li><li role="none"><button type="button" role="menuitem" style="width: 100%; display: flex; align-items: center; gap: 10px; height: 36px; padding: 0 10px; border: 0; border-radius: 6px; background: transparent; font: 400 14px 'Fira Sans', sans-serif; color: #1b1c1d; text-align: left"><svg width="18" height="18" viewBox="0 0 24 24" fill="currentColor" style="flex: none; color: #3d4047"><path d="M11 9.47V11H14.76L13 14.53V13H9.24L11 9.47M13 1L6 15H11V23L18 9H13V1Z"></path></svg>Functie aanvragen</button></li><li role="none"><button type="button" role="menuitem" style="width: 100%; display: flex; align-items: center; gap: 10px; height: 36px; padding: 0 10px; border: 0; border-radius: 6px; background: transparent; font: 400 14px 'Fira Sans', sans-serif; color: #1b1c1d; text-align: left"><svg width="18" height="18" viewBox="0 0 24 24" fill="currentColor" style="flex: none; color: #3d4047"><path d="M12,2L1,21H23M12,6L19.53,19H4.47M11,10V14H13V10M11,16V18H13V16"></path></svg>Fout melden</button></li></ul>
   </div>
 </div>
 </x-dc>

diff --git a/preview/screens/boards/PqTicketAntwoord.html b/preview/screens/boards/PqTicketAntwoord.html
@@ -336,6 +336,10 @@ a{color:var(--sc-primary, #3669a5)}a:hover{color:var(--sc-primary-deep, #234a78)
           <blockquote style="margin: 0; padding: 12px 14px; border-left: 4px solid var(--sc-work-field, #828a95); border-radius: 0 8px 8px 0; background: var(--sc-work-ground, #f5f6f8); font-size: 15px; line-height: 1.6; color: var(--sc-work-text, #3d4047)">Mevrouw De Vries wil met de buurt een straatfeest houden in de Parkstraat en vraagt welke vergunning daarvoor nodig is.</blockquote>
         </figure>
         <div style="display: flex; flex-direction: column; gap: 6px">
+          <label for="pq-answer-saved" style="font-size: 14px; font-weight: 600">Opgeslagen antwoord</label>
+          <select id="pq-answer-saved" style="box-sizing: border-box; width: 100%; height: 40px; padding: 0 12px; border: 1px solid var(--sc-work-field, #828a95); border-radius: 8px; background: #ffffff; font: 400 15px var(--sc-font, 'Fira Sans'), sans-serif; color: var(--sc-work-ink, #1b1c1d)"><option selected>Kies een opgeslagen antwoord</option><option>Evenementenvergunning aanvragen</option><option>Ontvangst bevestigen</option></select>
+        </div>
+        <div style="display: flex; flex-direction: column; gap: 6px">
           <label for="pq-answer" style="font-size: 14px; font-weight: 600">Je bericht</label>
           <textarea id="pq-answer" rows="10" style="width: 100%; box-sizing: border-box; padding: 12px 14px; border: 2px solid var(--sc-primary, #3669a5); border-radius: 8px; font: 400 15px/1.6 var(--sc-font, 'Fira Sans'), sans-serif; color: var(--sc-work-ink, #1b1c1d); resize: vertical">Beste mevrouw De Vries, Ja, voor een straatfeest met afgesloten straat is een evenementenvergunning nodig. U vraagt die aan in Mijn Zuiddrecht onder Vergunningen. Stuur een schets mee van waar de kramen en het podium komen, en een lijst van de buren die akkoord zijn. Voordat we besluiten, lopen we graag met u door de straat. Ik stuur u een afspraak voor een locatiebezoek. Met vriendelijke groet, Pieter Jansen, Gemeente Zuiddrecht</textarea>
           <span style="display: flex; gap: 8px; align-items: center; font-size: 14px; color: var(--sc-work-text, #3d4047)"><svg width="16" height="16" viewbox="0 0 24 24" fill="#5e6168" style="flex: none;fill:var(--sc-work-muted, #5e6168)"><path d="M22 6C22 4.9 21.1 4 20 4H4C2.9 4 2 4.9 2 6V18C2 19.1 2.9 20 4 20H20C21.1 20 22 19.1 22 18V6M20 6L12 11L4 6H20M20 18H4V8L12 13L20 8V18Z"></path></svg>Komt in Mijn Zuiddrecht en in de mailbox van de klant</span>

diff --git a/preview/screens/boards/PqTickets.html b/preview/screens/boards/PqTickets.html
@@ -184,6 +184,7 @@ a{color:var(--sc-primary, #3669a5)}a:hover{color:var(--sc-primary-deep, #234a78)
           <h1 style="flex: 1 1 320px; min-width: 0; margin: 0; font-size: 28px; font-weight: 700; line-height: 1.2">Vragen en meldingen</h1>
           <div style="flex: none; display: flex; flex-wrap: wrap; gap: 10px">
             <button type="button" style="display: flex; align-items: center; gap: 8px; height: 40px; padding: 0 14px; border: 1px solid var(--sc-work-field, #828a95); border-radius: 8px; background: #ffffff; font: 600 14px var(--sc-font, 'Fira Sans'), sans-serif; color: var(--sc-work-ink, #1b1c1d)"><svg width="16" height="16" viewbox="0 0 24 24" fill="currentColor"><path d="M13,5V11H14.17L12,13.17L9.83,11H11V5H13M15,3H9V9H5L12,16L19,9H15V3M19,18H5V20H19V18Z"></path></svg>Downloaden</button>
+            <button type="button" aria-haspopup="menu" style="display: flex; align-items: center; gap: 8px; height: 40px; padding: 0 14px; border: 1px solid var(--sc-work-field, #828a95); border-radius: 8px; background: #ffffff; font: 600 14px var(--sc-font, 'Fira Sans'), sans-serif; color: var(--sc-work-ink, #1b1c1d)"><svg width="16" height="16" viewbox="0 0 24 24" fill="currentColor" aria-hidden="true"><path d="M16,12A2,2 0 0,1 18,10A2,2 0 0,1 20,12A2,2 0 0,1 18,14A2,2 0 0,1 16,12M10,12A2,2 0 0,1 12,10A2,2 0 0,1 14,12A2,2 0 0,1 12,14A2,2 0 0,1 10,12M4,12A2,2 0 0,1 6,10A2,2 0 0,1 8,12A2,2 0 0,1 6,14A2,2 0 0,1 4,12Z"></path></svg>Acties</button>
             <button type="button" aria-label="buildiq" title="buildiq" style="display: flex; align-items: center; justify-content: center; width: 40px; height: 40px; border: 0; border-radius: 8px; background: var(--sc-buildiq, #c64e0b); color: #ffffff"><svg width="20" height="20" viewbox="0 0 24 24" fill="currentColor"><path d="M12,16L19.36,10.27L21,9L12,2L3,9L4.63,10.27M12,18.54L4.62,12.81L3,14.07L12,21.07L21,14.07L19.37,12.8L12,18.54Z"></path></svg></button>
             <button type="button" style="display: flex; align-items: center; gap: 8px; height: 40px; padding: 0 16px; border: 0; border-radius: 8px; background: var(--sc-primary, #3669a5); color: #ffffff; font: 600 14px var(--sc-font, 'Fira Sans'), sans-serif"><svg width="18" height="18" viewbox="0 0 24 24" fill="currentColor"><path d="M19,13H13V19H11V13H5V11H11V5H13V11H19V13Z"></path></svg>Nieuw verzoek</button>
           </div>

diff --git a/screens-src/zuiddrecht/PqTicketAntwoord.dc.html b/screens-src/zuiddrecht/PqTicketAntwoord.dc.html
@@ -152,6 +152,10 @@ a{color:#3669a5}a:hover{color:#234a78}
           <blockquote style="margin: 0; padding: 12px 14px; border-left: 4px solid #828a95; border-radius: 0 8px 8px 0; background: #f5f6f8; font-size: 15px; line-height: 1.6; color: #3d4047">Mevrouw De Vries wil met de buurt een straatfeest houden in de Parkstraat en vraagt welke vergunning daarvoor nodig is.</blockquote>
         </figure>
         <div style="display: flex; flex-direction: column; gap: 6px">
+          <label for="pq-answer-saved" style="font-size: 14px; font-weight: 600">Opgeslagen antwoord</label>
+          <select id="pq-answer-saved" style="box-sizing: border-box; width: 100%; height: 40px; padding: 0 12px; border: 1px solid #828a95; border-radius: 8px; background: #ffffff; font: 400 15px 'Fira Sans', sans-serif; color: #1b1c1d"><option selected>Kies een opgeslagen antwoord</option><option>Evenementenvergunning aanvragen</option><option>Ontvangst bevestigen</option></select>
+        </div>
+        <div style="display: flex; flex-direction: column; gap: 6px">
           <label for="pq-answer" style="font-size: 14px; font-weight: 600">Je bericht</label>
           <textarea id="pq-answer" rows="10" style="width: 100%; box-sizing: border-box; padding: 12px 14px; border: 2px solid #3669a5; border-radius: 8px; font: 400 15px/1.6 'Fira Sans', sans-serif; color: #1b1c1d; resize: vertical">Beste mevrouw De Vries, Ja, voor een straatfeest met afgesloten straat is een evenementenvergunning nodig. U vraagt die aan in Mijn Zuiddrecht onder Vergunningen. Stuur een schets mee van waar de kramen en het podium komen, en een lijst van de buren die akkoord zijn. Voordat we besluiten, lopen we graag met u door de straat. Ik stuur u een afspraak voor een locatiebezoek. Met vriendelijke groet, Pieter Jansen, Gemeente Zuiddrecht</textarea>
           <span style="display: flex; gap: 8px; align-items: center; font-size: 14px; color: #3d4047"><svg width="16" height="16" viewBox="0 0 24 24" fill="#5e6168" style="flex: none"><path d="M22 6C22 4.9 21.1 4 20 4H4C2.9 4 2 4.9 2 6V18C2 19.1 2.9 20 4 20H20C21.1 20 22 19.1 22 18V6M20 6L12 11L4 6H20M20 18H4V8L12 13L20 8V18Z"></path></svg>Komt in Mijn Zuiddrecht en in de mailbox van de klant</span>

diff --git a/screens-src/zuiddrecht/PqTickets.dc.html b/screens-src/zuiddrecht/PqTickets.dc.html
@@ -25,6 +25,7 @@ a{color:#3669a5}a:hover{color:#234a78}
           <h1 style="flex: 1 1 320px; min-width: 0; margin: 0; font-size: 28px; font-weight: 700; line-height: 1.2">Vragen en meldingen</h1>
           <div style="flex: none; display: flex; flex-wrap: wrap; gap: 10px">
             <button type="button" style="display: flex; align-items: center; gap: 8px; height: 40px; padding: 0 14px; border: 1px solid #828a95; border-radius: 8px; background: #ffffff; font: 600 14px 'Fira Sans', sans-serif; color: #1b1c1d"><svg width="16" height="16" viewBox="0 0 24 24" fill="currentColor"><path d="M13,5V11H14.17L12,13.17L9.83,11H11V5H13M15,3H9V9H5L12,16L19,9H15V3M19,18H5V20H19V18Z"></path></svg>Downloaden</button>
+            <button type="button" aria-haspopup="menu" style="display: flex; align-items: center; gap: 8px; height: 40px; padding: 0 14px; border: 1px solid #828a95; border-radius: 8px; background: #ffffff; font: 600 14px 'Fira Sans', sans-serif; color: #1b1c1d"><svg width="16" height="16" viewBox="0 0 24 24" fill="currentColor" aria-hidden="true"><path d="M16,12A2,2 0 0,1 18,10A2,2 0 0,1 20,12A2,2 0 0,1 18,14A2,2 0 0,1 16,12M10,12A2,2 0 0,1 12,10A2,2 0 0,1 14,12A2,2 0 0,1 12,14A2,2 0 0,1 10,12M4,12A2,2 0 0,1 6,10A2,2 0 0,1 8,12A2,2 0 0,1 6,14A2,2 0 0,1 4,12Z"></path></svg>Acties</button>
             <button type="button" aria-label="buildiq" title="buildiq" style="display: flex; align-items: center; justify-content: center; width: 40px; height: 40px; border: 0; border-radius: 8px; background: #c64e0b; color: #ffffff"><svg width="20" height="20" viewBox="0 0 24 24" fill="currentColor"><path d="M12,16L19.36,10.27L21,9L12,2L3,9L4.63,10.27M12,18.54L4.62,12.81L3,14.07L12,21.07L21,14.07L19.37,12.8L12,18.54Z"></path></svg></button>
             <button type="button" style="display: flex; align-items: center; gap: 8px; height: 40px; padding: 0 16px; border: 0; border-radius: 8px; background: #3669a5; color: #ffffff; font: 600 14px 'Fira Sans', sans-serif"><svg width="18" height="18" viewBox="0 0 24 24" fill="currentColor"><path d="M19,13H13V19H11V13H5V11H11V5H13V11H19V13Z"></path></svg>Nieuw verzoek</button>
           </div>
